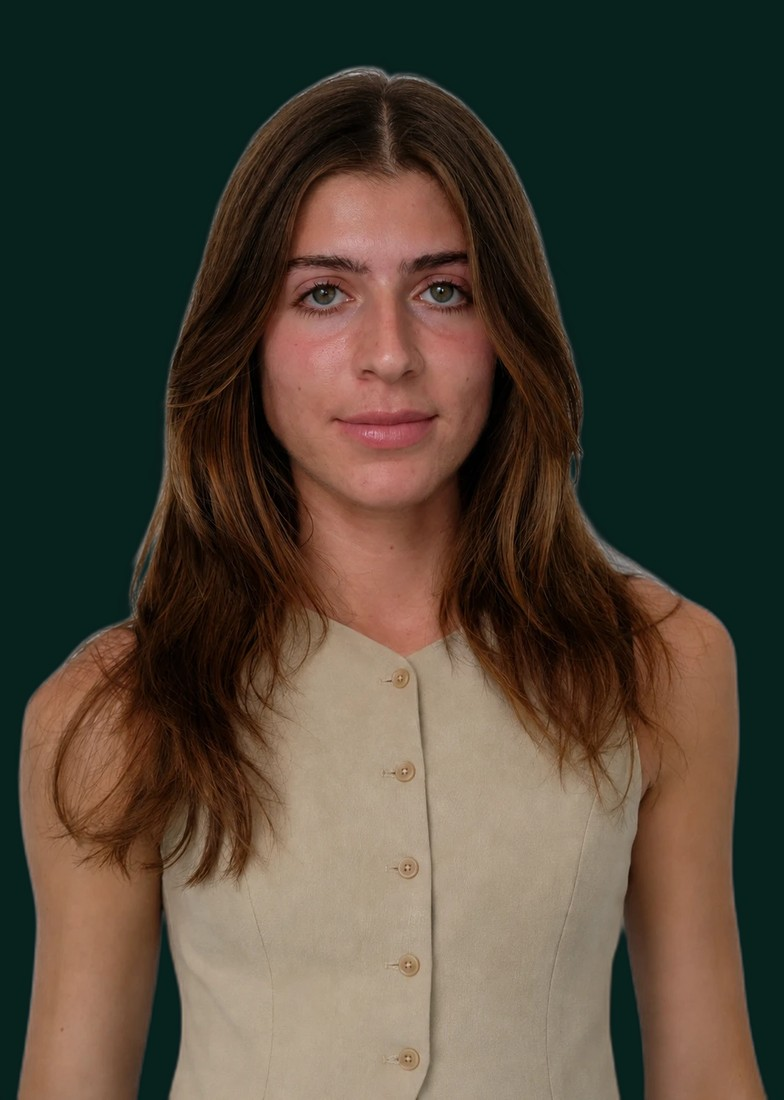
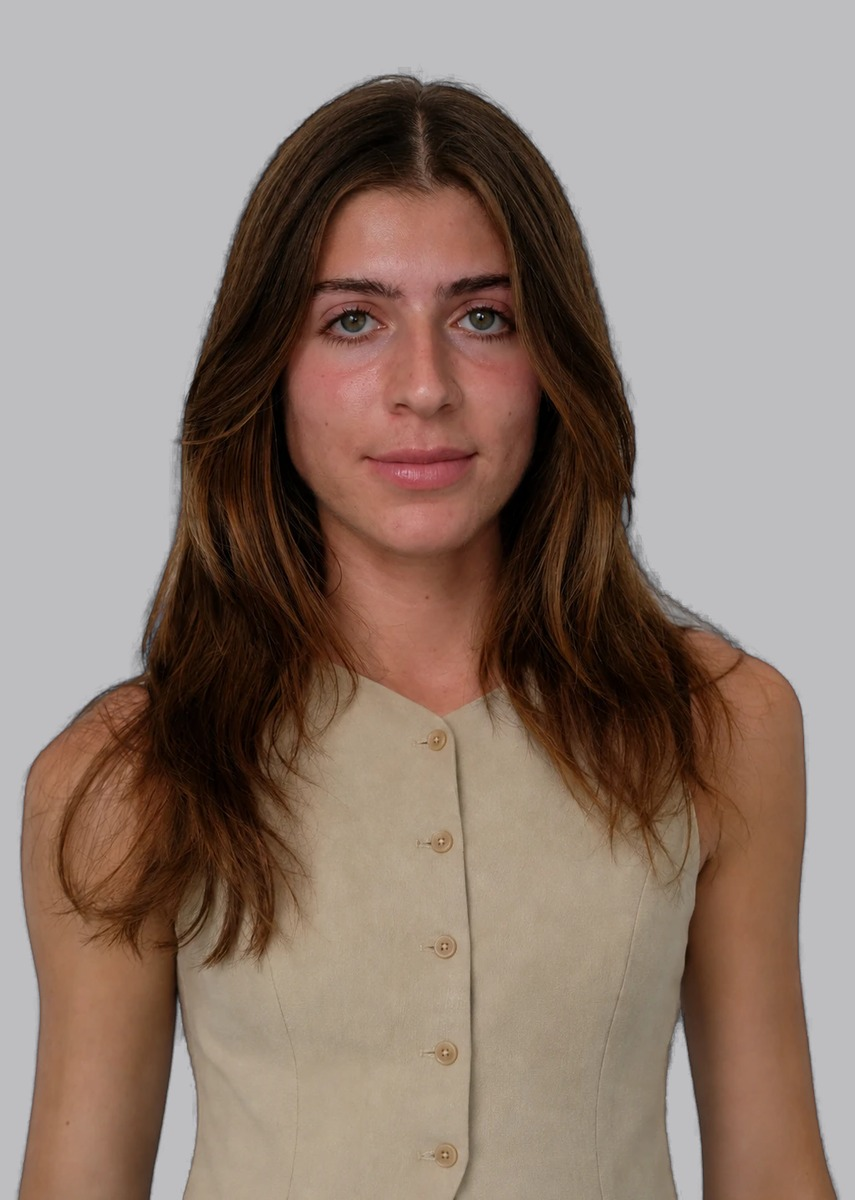
Seamless portrait panel, silhouette-excluded reveal, acrylic-pour art
- Reprocessed the portrait with alpha-matted background removal and
  proper edge decontamination (no more white halo from the original
  studio backdrop), composited onto an exact match of the original
  photo's light gray.
- Replaced the dark rounded "card" treatment with a single full-width
  light panel using that same gray as its own CSS background, so the
  photo has no visible frame or seam - it reads as one continuous
  page rather than an image pasted on a different-colored background.
- Exported the cutout's alpha channel as a silhouette mask and used it
  to exclude her from the reveal effect entirely: the hidden artwork
  can now only ever appear in the space around her, never over her
  photo, regardless of cursor position.
- Replaced the neon filament artwork with an acrylic-pour / cell-art
  composition (organic gold/green/blue blobs with dark outlines,
  nested bubble cells, pale veining) modeled on a fluid-art reference
  image instead of a microscopy photo.

diff --git a/script.js b/script.js
@@ -191,12 +191,23 @@
   ----------------------------------------------------------------*/
   (function () {
     var canvas = document.getElementById("revealCanvas");
-    var hero = document.querySelector(".hero-portrait-wrap");
-    if (!canvas || !hero || reduceMotion) return;
+    var hero = document.querySelector(".portrait-panel");
+    var portraitImg = document.querySelector(".hero-portrait");
+    if (!canvas || !hero || !portraitImg || reduceMotion) return;
 
     var ctx = canvas.getContext("2d");
     var mask = document.createElement("canvas");
     var mctx = mask.getContext("2d");
+    var personMask = document.createElement("canvas");
+    var personMaskCtx = personMask.getContext("2d");
+    var personAlphaImg = new Image();
+    var personAlphaReady = false;
+    personAlphaImg.onload = function () {
+      personAlphaReady = true;
+      buildPersonMask();
+    };
+    personAlphaImg.src = "assets/img/portrait-alpha.png";
+
     var artwork = null;
     var mouseX = -9999, mouseY = -9999;
     var running = false;
@@ -228,88 +239,134 @@
       actx.lineTo(pts[pts.length - 1][0], pts[pts.length - 1][1]);
     }
 
-    /* Neon, high-contrast, all-green microscopy-style artwork: tangled
-       glowing filament strands (like a threaded algae mat) plus a few
-       stippled, dotted "colony" spheres, on a near-black base so the
-       saturated green pops hard when revealed. */
+    /* Acrylic-pour / cell-art style: irregular organic "cells" of
+       varying size in a warm ochre/gold/green/blue palette, each with
+       a darker outline, nested smaller bubble-cells inside the larger
+       ones, and fine pale veining threading between regions — modeled
+       directly on a fluid-art pour painting reference rather than a
+       microscopy photo. */
     function buildArtwork(width, height) {
       var off = document.createElement("canvas");
       off.width = width;
       off.height = height;
       var actx = off.getContext("2d");
-      var rand = seededRandom(1337);
+      var rand = seededRandom(2024);
 
-      actx.fillStyle = "#050e09";
+      var bg = actx.createLinearGradient(0, 0, width, height);
+      bg.addColorStop(0, "#c98b2e");
+      bg.addColorStop(0.5, "#a9761f");
+      bg.addColorStop(1, "#7a5a1c");
+      actx.fillStyle = bg;
       actx.fillRect(0, 0, width, height);
 
-      var strandCount = Math.max(24, Math.round((width * height) / 30000));
-      for (var i = 0; i < strandCount; i++) {
-        var segs = 5 + Math.floor(rand() * 5);
+      var palette = [
+        "#d9a441", "#c9962e", "#e0b959", // gold / ochre
+        "#3c6b35", "#4f8a3d", "#6fae4a", // greens
+        "#215a52", "#2f7d72", // deep teal
+        "#2f6f8f", "#4fa3c9", // blue accents
+        "#7a4a2a", "#5c3a22", // brown
+        "#f2ece0" // cream highlight
+      ];
+
+      function organicBlob(cx, cy, radius, wobble) {
         var pts = [];
-        var x = rand() * width, y = rand() * height;
-        var angle = rand() * Math.PI * 2;
-        for (var s = 0; s <= segs; s++) {
-          pts.push([x, y]);
-          angle += (rand() - 0.5) * 1.5;
-          var stepLen = 36 + rand() * 80;
-          x += Math.cos(angle) * stepLen;
-          y += Math.sin(angle) * stepLen;
+        var n = 10;
+        for (var i = 0; i <= n; i++) {
+          var angle = (i / n) * Math.PI * 2;
+          var r = radius * (1 - wobble / 2 + rand() * wobble);
+          pts.push([cx + Math.cos(angle) * r, cy + Math.sin(angle) * r]);
         }
-
-        var hue = 96 + rand() * 44; // saturated yellow-green through green
-        var light = 42 + rand() * 18;
-
-        actx.save();
-        actx.shadowColor = "hsla(" + hue + ", 100%, " + light + "%, 0.95)";
-        actx.shadowBlur = 12 + rand() * 12;
-        actx.strokeStyle = "hsla(" + hue + ", 95%, " + (light + 8) + "%, 0.55)";
-        actx.lineWidth = 5 + rand() * 8;
-        actx.lineCap = "round";
-        actx.lineJoin = "round";
-        drawSmoothPath(actx, pts);
-        actx.stroke();
-        actx.restore();
-
-        actx.save();
-        actx.strokeStyle = "hsla(" + hue + ", 100%, " + (light + 30) + "%, 0.95)";
-        actx.lineWidth = 1.2 + rand() * 1.8;
-        actx.lineCap = "round";
-        actx.lineJoin = "round";
-        drawSmoothPath(actx, pts);
-        actx.stroke();
-        actx.restore();
+        return pts;
       }
 
-      var sphereCount = Math.max(4, Math.round((width * height) / 220000));
-      for (var sp = 0; sp < sphereCount; sp++) {
-        var cx = rand() * width;
-        var cy = rand() * height;
-        var R = 30 + rand() * 60;
-        var sHue = 78 + rand() * 30;
-
-        var grad = actx.createRadialGradient(cx, cy, 0, cx, cy, R);
-        grad.addColorStop(0, "hsla(" + sHue + ", 100%, 62%, 0.95)");
-        grad.addColorStop(0.7, "hsla(" + sHue + ", 100%, 40%, 0.55)");
-        grad.addColorStop(1, "hsla(" + sHue + ", 100%, 20%, 0)");
-        actx.fillStyle = grad;
+      function fillBlobPath(pts, color, outline, outlineWidth) {
         actx.beginPath();
-        actx.arc(cx, cy, R, 0, Math.PI * 2);
-        actx.fill();
-
-        var dotCount = 70;
-        for (var d = 0; d < dotCount; d++) {
-          var da = rand() * Math.PI * 2;
-          var dr = Math.sqrt(rand()) * R * 0.92;
-          var dx = cx + Math.cos(da) * dr;
-          var dy = cy + Math.sin(da) * dr;
-          actx.fillStyle = "hsla(" + (sHue + rand() * 12) + ", 100%, " + (70 + rand() * 20) + "%, " + (0.3 + rand() * 0.45) + ")";
-          actx.beginPath();
-          actx.arc(dx, dy, 0.8 + rand() * 1.6, 0, Math.PI * 2);
-          actx.fill();
+        actx.moveTo(pts[0][0], pts[0][1]);
+        for (var i = 1; i < pts.length; i++) {
+          var p0 = pts[i - 1], p1 = pts[i];
+          var mx = (p0[0] + p1[0]) / 2, my = (p0[1] + p1[1]) / 2;
+          actx.quadraticCurveTo(p0[0], p0[1], mx, my);
         }
+        actx.closePath();
+        actx.fillStyle = color;
+        actx.fill();
+        if (outline) {
+          actx.strokeStyle = outline;
+          actx.lineWidth = outlineWidth || 2;
+          actx.stroke();
+        }
+      }
+
+      var macroCount = Math.max(8, Math.round((width * height) / 42000));
+      var macros = [];
+      for (var i = 0; i < macroCount; i++) {
+        var cx = rand() * width, cy = rand() * height;
+        var radius = 40 + rand() * 90;
+        var color = palette[Math.floor(rand() * palette.length)];
+        var pts = organicBlob(cx, cy, radius, 0.35);
+        fillBlobPath(pts, color, "rgba(30, 30, 20, 0.55)", 2.5 + rand() * 2);
+        macros.push({ cx: cx, cy: cy, radius: radius });
+      }
+
+      macros.forEach(function (m) {
+        var microCount = 3 + Math.floor(rand() * 6);
+        for (var j = 0; j < microCount; j++) {
+          var a = rand() * Math.PI * 2;
+          var d = rand() * m.radius * 0.7;
+          var mx = m.cx + Math.cos(a) * d;
+          var my = m.cy + Math.sin(a) * d;
+          var mr = 6 + rand() * 20;
+          var mcolor = palette[Math.floor(rand() * palette.length)];
+          var pts = organicBlob(mx, my, mr, 0.3);
+          fillBlobPath(pts, mcolor, "rgba(30, 30, 20, 0.5)", 1.4 + rand());
+        }
+      });
+
+      var scatterCount = Math.max(20, Math.round((width * height) / 9000));
+      for (var s = 0; s < scatterCount; s++) {
+        var sx = rand() * width, sy = rand() * height;
+        var sr = 3 + rand() * 12;
+        var scolor = palette[Math.floor(rand() * palette.length)];
+        var pts2 = organicBlob(sx, sy, sr, 0.4);
+        fillBlobPath(pts2, scolor, "rgba(30, 30, 20, 0.4)", 1 + rand());
+      }
+
+      var veinCount = 16;
+      for (var v = 0; v < veinCount; v++) {
+        var vx = rand() * width, vy = rand() * height;
+        actx.beginPath();
+        actx.moveTo(vx, vy);
+        var segs = 5 + Math.floor(rand() * 6);
+        var cx2 = vx, cy2 = vy;
+        var angle2 = rand() * Math.PI * 2;
+        for (var k = 0; k < segs; k++) {
+          angle2 += (rand() - 0.5) * 1.2;
+          cx2 += Math.cos(angle2) * (30 + rand() * 50);
+          cy2 += Math.sin(angle2) * (30 + rand() * 50);
+          actx.lineTo(cx2, cy2);
+        }
+        actx.strokeStyle = "rgba(245, 238, 220, " + (0.35 + rand() * 0.35) + ")";
+        actx.lineWidth = 1 + rand() * 1.8;
+        actx.stroke();
       }
 
       return off;
+    }
+
+    function buildPersonMask() {
+      var panelRect = hero.getBoundingClientRect();
+      var imgRect = portraitImg.getBoundingClientRect();
+      personMask.width = panelRect.width;
+      personMask.height = panelRect.height;
+      if (!personAlphaReady || !panelRect.width) return;
+      personMaskCtx.clearRect(0, 0, personMask.width, personMask.height);
+      personMaskCtx.drawImage(
+        personAlphaImg,
+        imgRect.left - panelRect.left,
+        imgRect.top - panelRect.top,
+        imgRect.width,
+        imgRect.height
+      );
     }
 
     function resize() {
@@ -319,6 +376,7 @@
       mask.width = rect.width;
       mask.height = rect.height;
       artwork = buildArtwork(rect.width, rect.height);
+      buildPersonMask();
     }
 
     function step() {
@@ -336,6 +394,13 @@
         mctx.beginPath();
         mctx.arc(mouseX, mouseY, 150, 0, Math.PI * 2);
         mctx.fill();
+      }
+
+      // Exclude her silhouette: the reveal should only ever show in the
+      // background around her, never over her actual photo.
+      if (personAlphaReady) {
+        mctx.globalCompositeOperation = "destination-out";
+        mctx.drawImage(personMask, 0, 0);
       }
 
       ctx.clearRect(0, 0, canvas.width, canvas.height);
@@ -369,6 +434,11 @@
 
     resize();
     window.addEventListener("resize", resize);
+    if (portraitImg.complete) {
+      resize();
+    } else {
+      portraitImg.addEventListener("load", resize);
+    }
 
     if ("IntersectionObserver" in window) {
       var obs = new IntersectionObserver(

diff --git a/index.html b/index.html
@@ -43,15 +43,15 @@
   <div class="hero-inner">
     <p class="badge-line reveal-b">Applied Biology · Sustainability Studies · University of Florida</p>
     <h1 class="hero-name reveal-b">SHOSHANA<br />OVER</h1>
+    <p class="hero-tag reveal-b">Studying algae. Applying it to sustainability.</p>
   </div>
-
-  <div class="hero-portrait-wrap reveal-b">
-    <img src="assets/img/portrait-hero.jpg" alt="Portrait of Shoshana Over" class="hero-portrait" />
-    <canvas id="revealCanvas" class="reveal-canvas"></canvas>
-  </div>
-
-  <p class="hero-tag reveal-b">Studying algae. Applying it to sustainability.</p>
   <div class="scroll-hint">Scroll</div>
+</section>
+
+<section class="portrait-panel reveal-b">
+  <img src="assets/img/portrait-hero.jpg" alt="Portrait of Shoshana Over" class="hero-portrait" />
+  <canvas id="revealCanvas" class="reveal-canvas"></canvas>
+</section>
 </section>
 
 <!-- MARQUEE -->
@@ -166,6 +166,6 @@
   <p>&copy; 2026 Shoshana Over. Built with clean code and a healthy culture of algae.</p>
 </footer>
 
-<script src="script.js?v=5"></script>
+<script src="script.js?v=6"></script>
 </body>
 </html>

diff --git a/styles.css b/styles.css
@@ -9,6 +9,7 @@
   --ink: #07211d;
   --ink-soft: #3c5850;
   --light-bg: #f2f5ef;
+  --photo-bg: #bebdbf;
   --card-bg: #ffffff;
   --border: rgba(7, 33, 29, 0.1);
   --font-display: "Archivo Black", "Arial Black", sans-serif;
@@ -192,23 +193,19 @@ a { color: inherit; text-decoration: none; }
   letter-spacing: -0.01em;
 }
 
-.hero-portrait-wrap {
+.portrait-panel {
   position: relative;
-  width: min(300px, 62vw);
-  aspect-ratio: 784 / 1100;
-  margin-top: 30px;
-  border-radius: 20px;
+  background: var(--photo-bg);
+  display: flex;
+  justify-content: center;
   overflow: hidden;
-  box-shadow: 0 30px 60px -20px rgba(0, 0, 0, 0.6);
-  z-index: 2;
-  cursor: default;
 }
 
 .hero-portrait {
   display: block;
   width: 100%;
-  height: 100%;
-  object-fit: cover;
+  max-width: 480px;
+  height: auto;
 }
 
 .hero-tag {
